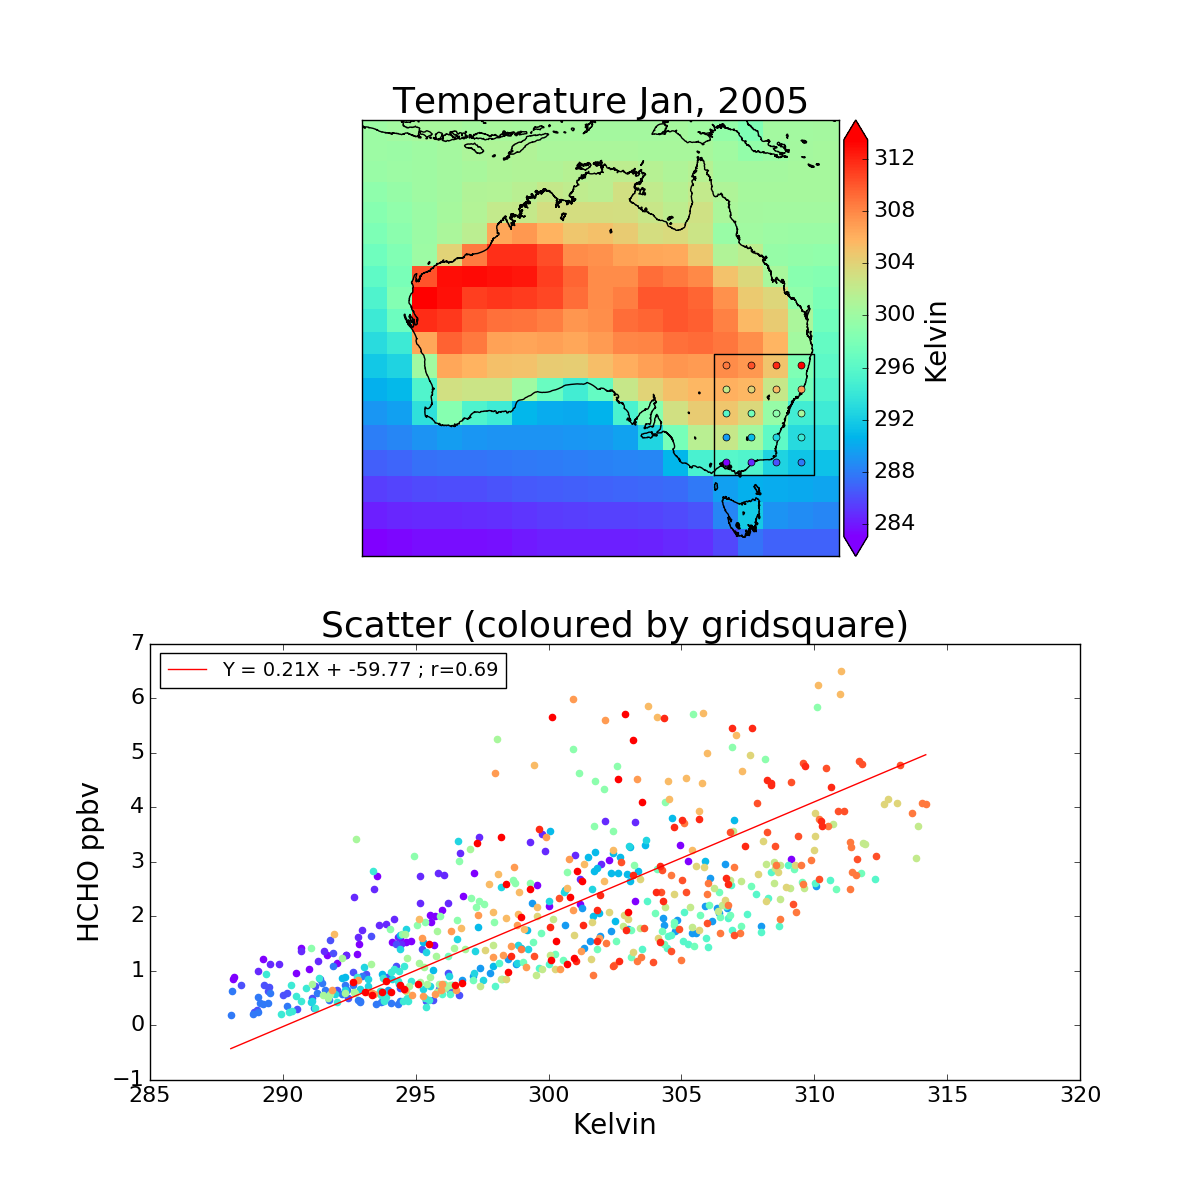
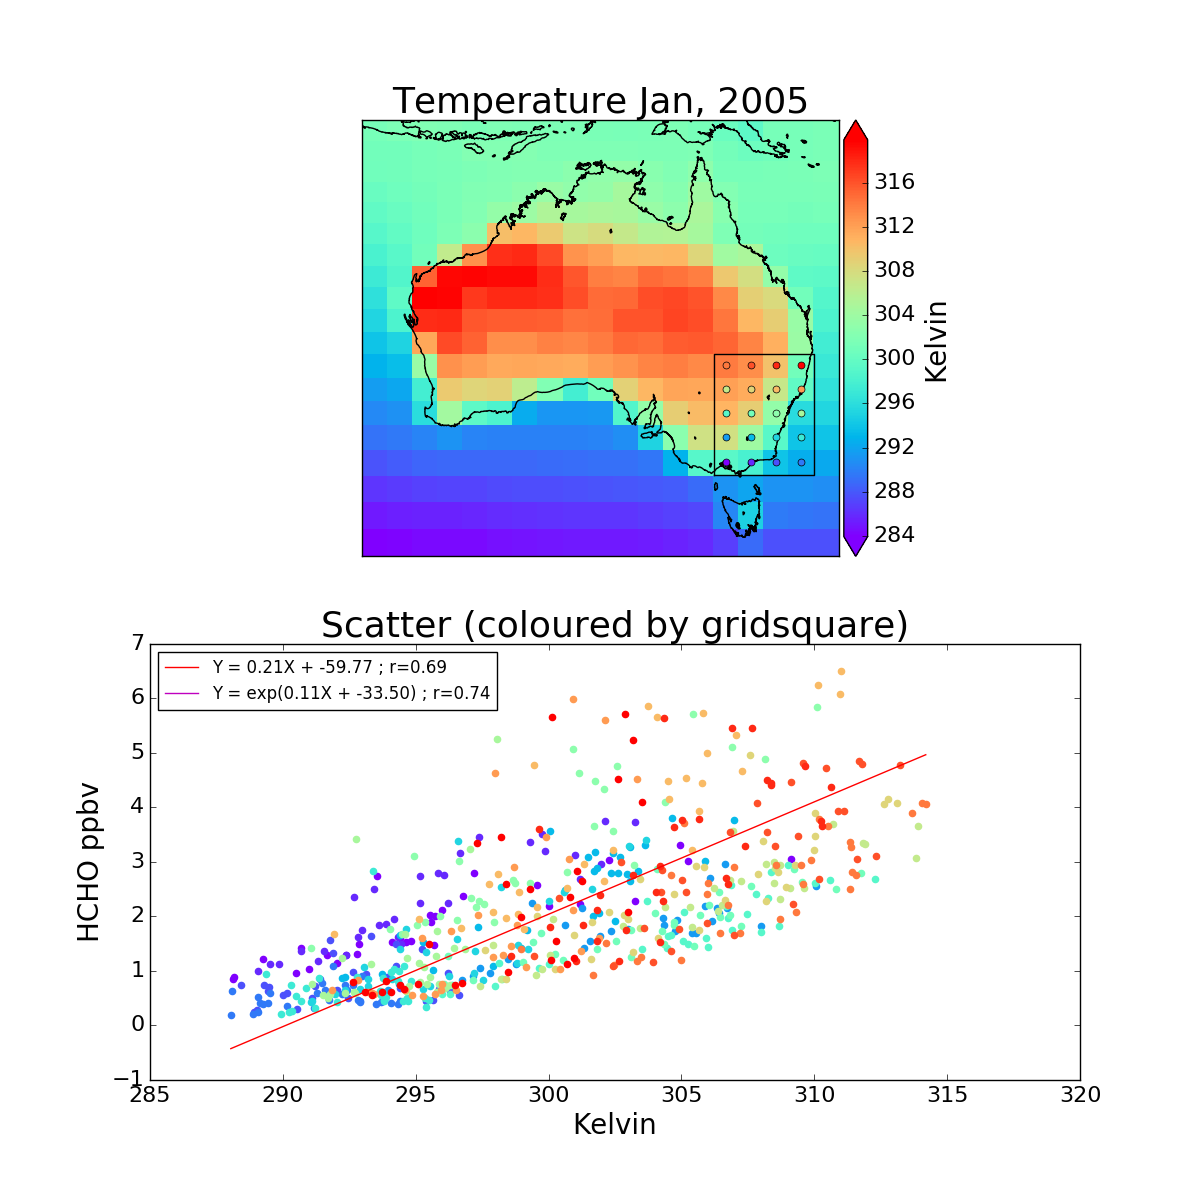
Updated sat class to read d0-dn

Changed region(s): [[0.2775, 0.0925, 0.7708, 0.4625], [0.1233, 0.5242, 0.4317, 0.5858], [0.6167, 0.4008, 0.6783, 0.4317]]

diff --git a/GC_tests.py b/GC_tests.py
@@ -56,7 +56,9 @@ def HCHO_vs_temp(d0=datetime(2005,1,1),d1=None,region=SEA,regionlabel='SEA',regi
 
     d1 not yet implemented, just looks at month of d0
     '''
-    gc=GC_class.GC_sat(d0,)
+    if d1 is None:
+        d1=util.last_day(d0)
+    gc=GC_class.GC_sat(d0,d1)
     plt.figure(figsize=[12,12])
     ym=d0.strftime('%b, %Y')
     ymd=d0.strftime('%Y%m%d')
@@ -66,7 +68,8 @@ def HCHO_vs_temp(d0=datetime(2005,1,1),d1=None,region=SEA,regionlabel='SEA',regi
         regionplus=np.array(region)+np.array([-10,-15,10,15])
 
     # Temperature avg:
-    temp=gc.temp[:,:,:,0] # surface
+    #temp=gc.temp[:,:,:,0] # surface
+    temp=gc.surftemp[:,:,:,0] # surface temp in Kelvin
     surfmeantemp=np.mean(temp,axis=0)
     lati,loni=util.lat_lon_range(gc.lats,gc.lons,regionplus)
     smt=surfmeantemp[lati,:]
@@ -110,9 +113,13 @@ def HCHO_vs_temp(d0=datetime(2005,1,1),d1=None,region=SEA,regionlabel='SEA',regi
             hh.extend(list(iihcho))
             ii=ii+1
 
+    # add straight regression
+    pp.add_regression(tt,hh,color='r')
+    # Add exponential regression:
+    pp.add_regression(tt,hh,color='m',exponential=True)
+    plt.plot()
+    plt.legend(loc='upper left', fontsize=12)
 
-    pp.add_regression(tt,hh)
-    plt.legend(loc='upper left', fontsize=14)
 
     plt.title('Scatter (coloured by gridsquare)')
     plt.xlabel('Kelvin')
@@ -135,7 +142,7 @@ def GC_vs_OMNO2d(month=datetime(2005,1,1),region=pp.__AUSREGION__):
     amin,amax=-1e15,1e15 # limits for absolute diffs
     vmin,vmax=1e14,14e14 # limits for molec/cm2 plots
     linear=True # linear or logarithmic scale
-    
+
     data,attrs=fio.read_omno2d(d0,month=True)
     OM_tropno2 = np.nanmean(data['tropno2'],axis=0) # Average over month axis
     OM_lats=data['lats']
@@ -150,7 +157,7 @@ def GC_vs_OMNO2d(month=datetime(2005,1,1),region=pp.__AUSREGION__):
     GC_anthrono[GC_anthrono < 1]=np.NaN
     GC_tropno2=np.nanmean(GC_tropno2,axis=0) # Average over month
     GC_anthrono=np.nanmean(GC_anthrono,axis=0)
-    
+
     GC_lats,GC_lons=GC.lats,GC.lons
 
     # set up axes for 3,1,1 columns (over 3 rows)
@@ -162,8 +169,8 @@ def GC_vs_OMNO2d(month=datetime(2005,1,1),region=pp.__AUSREGION__):
     ax5=plt.subplot(324)
     ax6=plt.subplot(325)
     ax7=plt.subplot(326)
-    
-    
+
+
     pname='Figs/GC/GC_vs_OMNO2_sat_%s.png'%month.strftime('%Y%m')
     gc_tno2,om_tno2 = pp.compare_maps([GC_tropno2,OM_tropno2],
                                       [GC_lats,OM_lats],[GC_lons,OM_lons],
@@ -208,7 +215,7 @@ def GC_vs_OMNO2d(month=datetime(2005,1,1),region=pp.__AUSREGION__):
             tmp=OM_tropno2[lati,:]
             tmp=tmp[:,loni]
             OM_low[i,j]=np.nanmean(tmp)
-    
+
     # Put a regression for each gridsquare:
     plt.sca(ax4)
     GC_anthrono=GC_anthrono/np.nanstd(GC_anthrono)
@@ -224,7 +231,7 @@ def GC_vs_OMNO2d(month=datetime(2005,1,1),region=pp.__AUSREGION__):
     plt.title('molec/cm2')
     plt.ylabel('GC')
     plt.xlabel('OM_low')
-    
+
     gc_tno2,om_tno2 = pp.compare_maps([GC_tropno2,OM_low],
                                       [GC_lats,GC_lats],[GC_lons,GC_lons],
                                       region=region,
@@ -767,12 +774,13 @@ def check_shapefactors(date=datetime(2005,1,1)):
 if __name__=='__main__':
     pp.InitMatplotlib()
 
+    region=SEA
+    label='SEA'
     #for region, label in zip(subs,labels):
-    #    HCHO_vs_temp(region=region,regionlabel=label)
+    HCHO_vs_temp(region=region,regionlabel=label)
 
-    #GC_vs_OMI()
-    for month in util.list_months(datetime(2005,1,1),datetime(2005,3,1)):
-        GC_vs_OMNO2d(month=month)
+    #for month in util.list_months(datetime(2005,1,1),datetime(2005,3,1)):
+    #    GC_vs_OMNO2d(month=month)
 
     #GC_vs_OMNO2d(month=datetime(2005,1,1))
     #compare_to_campaigns_daily_cycle()

diff --git a/classes/GC_class.py b/classes/GC_class.py
@@ -106,7 +106,7 @@ _GC_names_to_nice = { 'time':'time','lev':'press','lat':'lats','lon':'lons',
     # Many more in trac_avg_yyyymm.nc, not read here yet...
     'CHEM-L=$_OH':'OH', # OH molec/cm3: (time, alt059, lat, lon) : 'chemically produced OH'
     'DAO-3D-$_TMPU':'temp', # temperature
-    'DOA-FLDS_TS':'surftemp', # surface temperature, Kelvin
+    'DAO-FLDS_TS':'surftemp', # surface temperature, Kelvin
     }
 
 ################
@@ -151,7 +151,11 @@ class GC_base:
 
             # Fix air density units to molec/m3, in case they are in molec/cm3
             if key == 'TIME-SER_AIRDEN':
-                surf_air=np.nanmean(arr[:,:,:,0])
+                # grab surface air density to check units
+                surf_air=np.nanmean(arr[:,:,0])
+                if len(arr.shape)==4:
+                    surf_air=np.nanmean(arr[:,:,:,0]) # maybe has time dimension
+
                 if __VERBOSE__:
                     print(key,np.shape(arr),'surface N_air:',surf_air)
                 if key in attrs:
@@ -491,27 +495,25 @@ class GC_sat(GC_base):
     '''
         Class for reading and manipulating satellite overpass output!
     '''
-    def __init__(self,date, keys=__gc_allkeys__, run='tropchem',nlevs=47):
+    def __init__(self,day0, dayN=None, keys=__gc_allkeys__, run='tropchem',nlevs=47):
 
         # Determine path of files:
-        dstr=date.strftime("%Y%m*")
-        path=sat_path[run]%dstr
+        dates=util.list_days(day0,dayN)
+        dstrs=util.list_days_strings(day0,dayN)
+        paths= [ sat_path[run]%dstr for dstr in dstrs ]
 
         # read data/attrs and initialise class:
-        data,attrs = GC_fio.read_bpch(path,keys=keys,multi='*' in path)
+        data,attrs = GC_fio.read_bpch(paths,keys=keys)
 
         # may need to handle missing time dim...
         if not 'time' in data:
-            tmp=data['IJ-AVG-$_CH2O']
-            dates=[date]
+            #tmp=data['IJ-AVG-$_CH2O']
             times=util.datetimes_from_np_datetime64(dates,reverse=True)
-            if len(tmp.shape) == 4:
-                dates=util.list_days(date,month=True)
-                times=util.datetimes_from_np_datetime64(dates,reverse=True)
+
             data['time']=np.array(times)
             attrs['time']={'desc':'Overpass date (np.datetime64)'}
 
-        attrs['init_date']=date
+        attrs['init_date']=day0
         super(GC_sat,self).__init__(data,attrs,nlevs=nlevs)
 
         # fix TR-PAUSE_TPLEV output:
@@ -537,12 +539,12 @@ class GC_sat(GC_base):
 
             # also calculate emissions in kg/s
             self._set_E_isop_bio_kgs()
+
         # fix dates:
-        files=glob(path)
-        if len(files) > 1:
+        if len(dates) > 1:
             self._has_time_dim=True
             #ASSUME WE HAVE ALL DAYS IN THIS MONTH:
-            self.dates=util.list_days(day0=date, month=True)
+            self.dates=dates
 
 
 class Hemco_diag(GC_base):

diff --git a/utilities/plotting.py b/utilities/plotting.py
@@ -112,15 +112,35 @@ def add_rectangle(bmap, limits, color='k', linewidth=1):
           lr[1], ll[1]]
     bmap.plot(xs, ys, latlon = True, color=color, linewidth=linewidth)
 
-def add_regression(X,Y,label=None, color='r'):
+def add_regression(X,Y,label=None, color='r', exponential=False):
     '''
     plots RMA between X and Y
+        Y = mX+b
+    or X and ln Y if exponential flag is set
+        ln Y = mX+b
+        Y = exp(mX + b)
     '''
-    m,b,r,ci1,ci2 = RMA(np.array(X),np.array(Y))
+    Y2=np.copy(Y)
+    if exponential:
+        Y2=np.log(Y)
+
+    # find regression
+    m,b,r,ci1,ci2 = RMA(np.array(X), np.array(Y2))
     xx= np.array([np.nanmin(X), np.nanmax(X)])
+    Xspace=np.linspace(xx[0], xx[1], 30)
+    Yline=m*Xspace + b
+    if exponential:
+        Xspace=np.logspace(xx[0], xx[1], 30)
+        Yline= np.exp( m * Xspace + b)
+
+    # set up lable
     if label is None:
         label='Y = %.2fX + %.2f ; r=%.2f'%(m,b,r)
-    plt.plot(xx,m*xx + b,color=color,label=label)
+        if exponential:
+            label='Y = exp(%.2fX + %.2f) ; r=%.2f'%(m,b,r)
+
+
+    plt.plot(Xspace,Yline,color=color,label=label)
 
 
 def basicmap(data, lats, lons, latlon=True,
@@ -489,7 +509,7 @@ def compare_maps(datas,lats,lons,pname=None,titles=['A','B'], suptitle=None,
 
     # set up plot
     f,axes=plt.subplots(2,2,figsize=(16,14))
-    
+
     # first plot plain maps
     plt.sca(axes[0,0])
     if axeslist[0] is not None:
@@ -498,7 +518,7 @@ def compare_maps(datas,lats,lons,pname=None,titles=['A','B'], suptitle=None,
           'lats':lats, 'lons':lons, 'title':titles[0], 'cmapname':'rainbow',
          'vmin':vmin, 'vmax':vmax}
     createmap(A, **args)
-    
+
     plt.sca(axes[0,1])
     if axeslist[1] is not None:
         plt.sca(axeslist[1])
@@ -523,10 +543,10 @@ def compare_maps(datas,lats,lons,pname=None,titles=['A','B'], suptitle=None,
     args['linear']=rlinear
     args['clabel']="%"
     createmap((A-B)*100.0/B, suptitle=suptitle, pname=pname, **args)
-    
+
     if np.sum([a is not None for a in axeslist]) > 0 :
         plt.close(f)
-    
+
     return (A,B)
 
 def add_grid_to_map(m, xy0=(-181.25,-89.), xyres=(2.5,2.), color='k', linewidth=1.0, dashes=[1000,1], labels=[0,0,0,0],xy1=None):

diff --git a/utilities/GC_fio.py b/utilities/GC_fio.py
@@ -96,11 +96,20 @@ def dataset_to_dicts(ds,keys):
 
     return data,attrs
 
-def read_bpch(path,keys,multi=False):
+def read_bpch(path,keys):
     '''
         Read  generic bpch file into dictionary
         keys = keys you want to read
     '''
+    paths=path
+    multi=False
+    if isinstance(path,list):
+        path=path[0]
+        if len(path) > 1:
+            multi=True
+    if '*' in path:
+        multi=True
+
     # assume tracerinfo and diaginfo in same folder:
     splt=path.split('/')
     splt[-1]='tracerinfo.dat'
@@ -128,7 +137,7 @@ def read_bpch(path,keys,multi=False):
               'tracerinfo_file':tracinf,'diaginfo_file':diaginf,
               'decode_cf':False,'dask':True}
     if multi:
-        ds=open_mfbpchdataset(path,**bpchargs)
+        ds=open_mfbpchdataset(paths,**bpchargs)
     else:
         ds=open_bpchdataset(path,**bpchargs)
 

diff --git a/utilities/utilities.py b/utilities/utilities.py
@@ -249,6 +249,12 @@ def list_days(day0,dayn=None,month=False):
     numdays = (dayn-day0).days + 1 # timedelta
     return [day0 + timedelta(days=x) for x in range(0, numdays)]
 
+def list_days_strings(day0,dayn=None,month=False,fmt='%Y%m%d'):
+    '''
+    '''
+    days=list_days(day0,dayn=dayn,month=month)
+    return [day.strftime(fmt) for day in days]
+
 def list_months(day0,dayn):
     '''
         Return list of months (day=1) included between day0 and dayN

diff --git a/utilities/fio.py b/utilities/fio.py
@@ -573,7 +573,7 @@ def read_omno2d(date0,date1=None,month=False):
     tropname='HDFEOS/GRIDS/ColumnAmountNO2/Data Fields/ColumnAmountNO2TropCloudScreened'
     latname='HDFEOS/GRIDS/ColumnAmountNO2/lat'
     lonname='HDFEOS/GRIDS/ColumnAmountNO2/lon'
-    ddir='/short/m19/satellite-data/aura/omi/OMNO2d/data/'
+    ddir='Data/OMNO2d/data/'
 
     dates=util.list_days(date0,date1)
     data=np.zeros([len(dates),720,1440])+np.NaN
